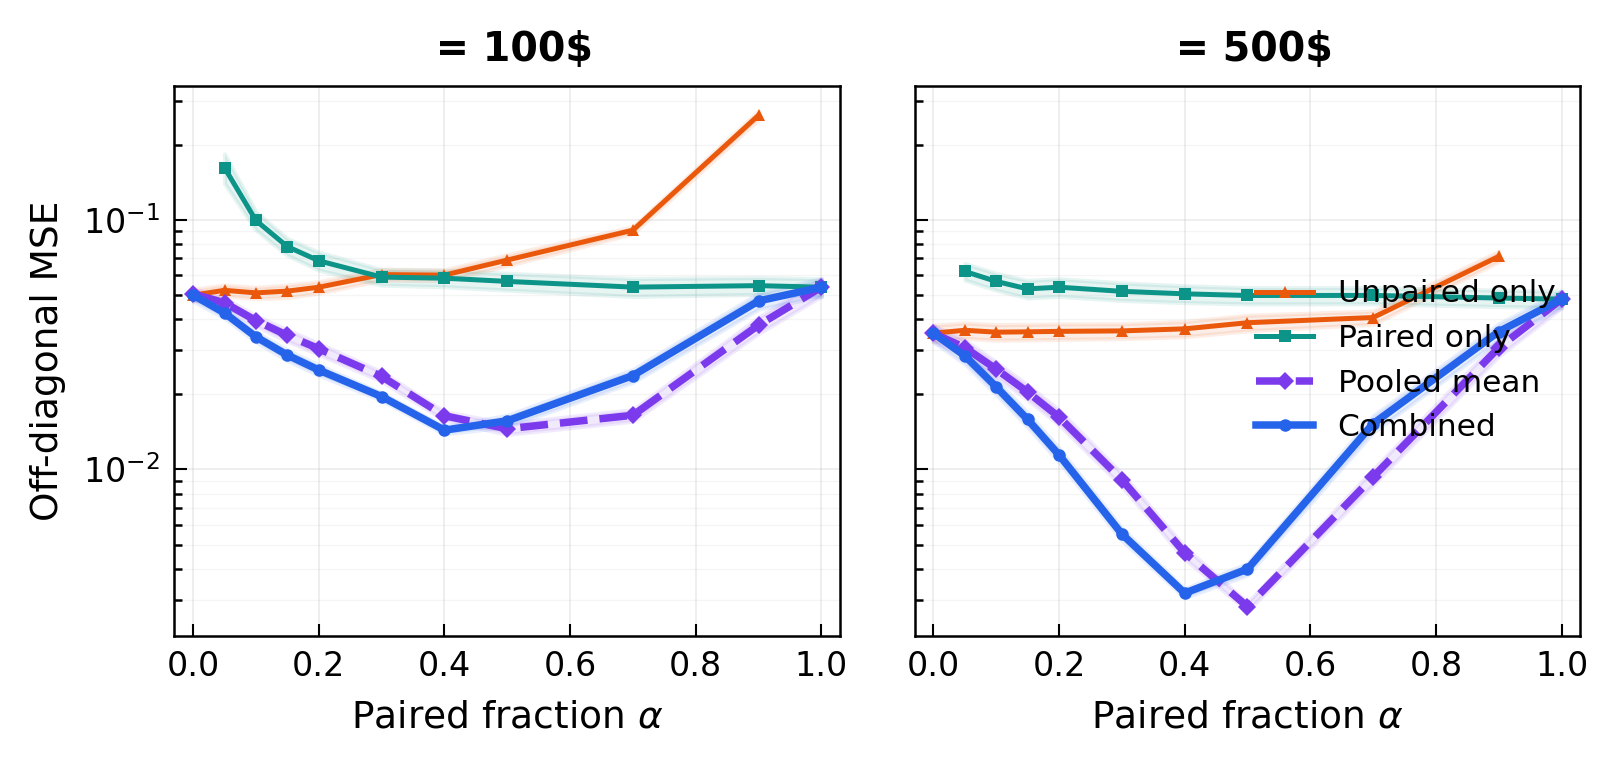
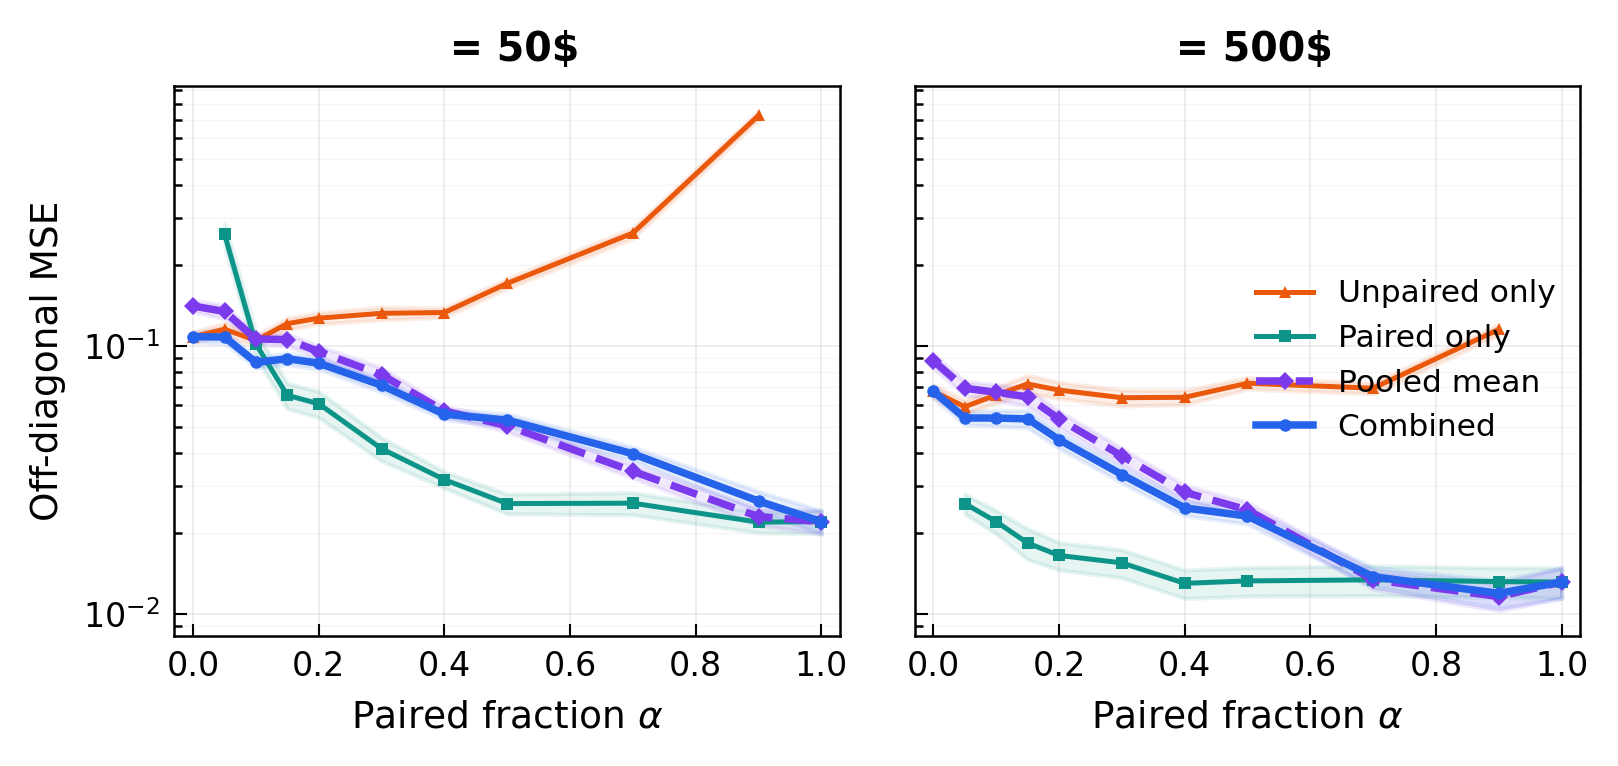
random mixture proportions per query set, fig2a with m=50,500
Query generation now draws p ~ U(0,1) per query set (one for paired,
one per model for unpaired) and allocates queries to mixture components
proportionally. This replaces fixed pi_paired/pi_unpaired and creates
realistic stochastic mismatch between query distributions.

pi_paired/pi_unpaired=None (default) enables the random proportions;
passing explicit arrays recovers the old deterministic behavior.

GT uses the uniform reference (E[q]=0 for symmetric components).

diff --git a/dkps/synthetic.py b/dkps/synthetic.py
@@ -126,22 +126,17 @@ def generate_synthetic_data(
     rng = np.random.default_rng(random_state)
     model_names = [f'model_{i:02d}' for i in range(n_models)]
 
-    if pi_paired is None:
-        pi_paired = np.array([1.0, 0.0], dtype=float)
-    else:
+    if pi_paired is not None:
         pi_paired = np.asarray(pi_paired, dtype=float)
+        assert pi_paired.shape == (2,), 'pi_paired must have shape (2,)'
+        assert np.isclose(pi_paired.sum(), 1.0), 'pi_paired must sum to 1'
+        assert np.all(pi_paired >= 0), 'pi_paired must be non-negative'
 
-    if pi_unpaired is None:
-        pi_unpaired = np.array([0.0, 1.0], dtype=float)
-    else:
+    if pi_unpaired is not None:
         pi_unpaired = np.asarray(pi_unpaired, dtype=float)
-
-    assert pi_paired.shape == (2,), 'pi_paired must have shape (2,)'
-    assert pi_unpaired.shape == (2,), 'pi_unpaired must have shape (2,)'
-    assert np.isclose(pi_paired.sum(), 1.0), 'pi_paired must sum to 1'
-    assert np.isclose(pi_unpaired.sum(), 1.0), 'pi_unpaired must sum to 1'
-    assert np.all(pi_paired >= 0), 'pi_paired must be non-negative'
-    assert np.all(pi_unpaired >= 0), 'pi_unpaired must be non-negative'
+        assert pi_unpaired.shape == (2,), 'pi_unpaired must have shape (2,)'
+        assert np.isclose(pi_unpaired.sum(), 1.0), 'pi_unpaired must sum to 1'
+        assert np.all(pi_unpaired >= 0), 'pi_unpaired must be non-negative'
 
     mu_components = np.array([
         [d_sep / 2.0] + [0.0] * (d_act - 1),
@@ -154,10 +149,26 @@ def generate_synthetic_data(
     n_paired = min(max(n_paired, 0), n_queries)
     n_unpaired = n_queries - n_paired
 
+    def _sample_components(rng, n, pi=None):
+        """Sample component assignments for n queries.
+        If pi is None, draw a random mixture proportion p ~ U(0,1)
+        and assign floor(p*n) to component 0, rest to component 1."""
+        if pi is not None:
+            return rng.choice(2, size=n, p=pi)
+        p = rng.uniform(0.0, 1.0)
+        n0 = int(round(p * n))
+        n0 = min(max(n0, 0), n)
+        components = np.zeros(n, dtype=int)
+        components[n0:] = 1
+        rng.shuffle(components)
+        return components
+
     rows = []
 
+    # Paired queries: random mixture proportion for the shared set
+    paired_components = _sample_components(rng, n_paired, pi_paired)
     for paired_idx in range(n_paired):
-        component = rng.choice(2, p=pi_paired)
+        component = paired_components[paired_idx]
         query_vec = rng.multivariate_normal(mu_components[component], np.eye(d_act))
         query_id = f'paired_{paired_idx:05d}'
 
@@ -184,9 +195,11 @@ def generate_synthetic_data(
                     row['replicate_id'] = rep
                 rows.append(row)
 
+    # Unpaired queries: each model draws its own random mixture proportion
     for model_idx, model_name in enumerate(model_names):
+        model_components = _sample_components(rng, n_unpaired, pi_unpaired)
         for unpaired_idx in range(n_unpaired):
-            component = rng.choice(2, p=pi_unpaired)
+            component = model_components[unpaired_idx]
             query_vec = rng.multivariate_normal(mu_components[component], np.eye(d_act))
             query_id = f'{model_name}_unpaired_{unpaired_idx:05d}'
 
@@ -215,18 +228,11 @@ def generate_synthetic_data(
     data = pd.DataFrame(rows)
     data = data.sort_values(['model_id', 'query_id']).reset_index(drop=True)
 
-    # Ground truth: ||mu_i - mu_k|| where mu_i = E_q[f_i(q)].
-    # With the interaction model f_i(q) = q + v_i + gamma * v_i * q,
-    # mu_i = E[q] + v_i + gamma * v_i * E[q] = E[q](1 + gamma*v_i) + v_i.
-    # The mixture mean is E[q] = pi_paired * ... but for GT we use the
-    # reference distribution; with balanced pi=[0.5,0.5] or d_sep=0,
-    # E[q]=0 and mu_i = v_i. In general we compute it from the components.
-    eq = pi_paired[0] * mu_components[0] + pi_paired[1] * mu_components[1]
-    # Use the average of paired and unpaired mixture weights as reference
-    # (when they differ, the "population" query distribution is ambiguous;
-    # using the overall mixture is a reasonable default).
-    eq_ref = 0.5 * (pi_paired[0] + pi_unpaired[0]) * mu_components[0] + \
-             0.5 * (pi_paired[1] + pi_unpaired[1]) * mu_components[1]
+    # Ground truth: ||mu_i - mu_k|| where mu_i = E_q[f_i(q)] under the
+    # uniform reference distribution over both components (p=0.5).
+    # With interaction: mu_i = E[q](1 + gamma*v_i) + v_i.
+    # E[q] under uniform mixture = 0.5*mu_1 + 0.5*mu_2 = 0 (symmetric).
+    eq_ref = 0.5 * mu_components[0] + 0.5 * mu_components[1]
     mean_responses = np.array([
         eq_ref + v + interaction_strength * v * eq_ref
         for v in model_offsets
